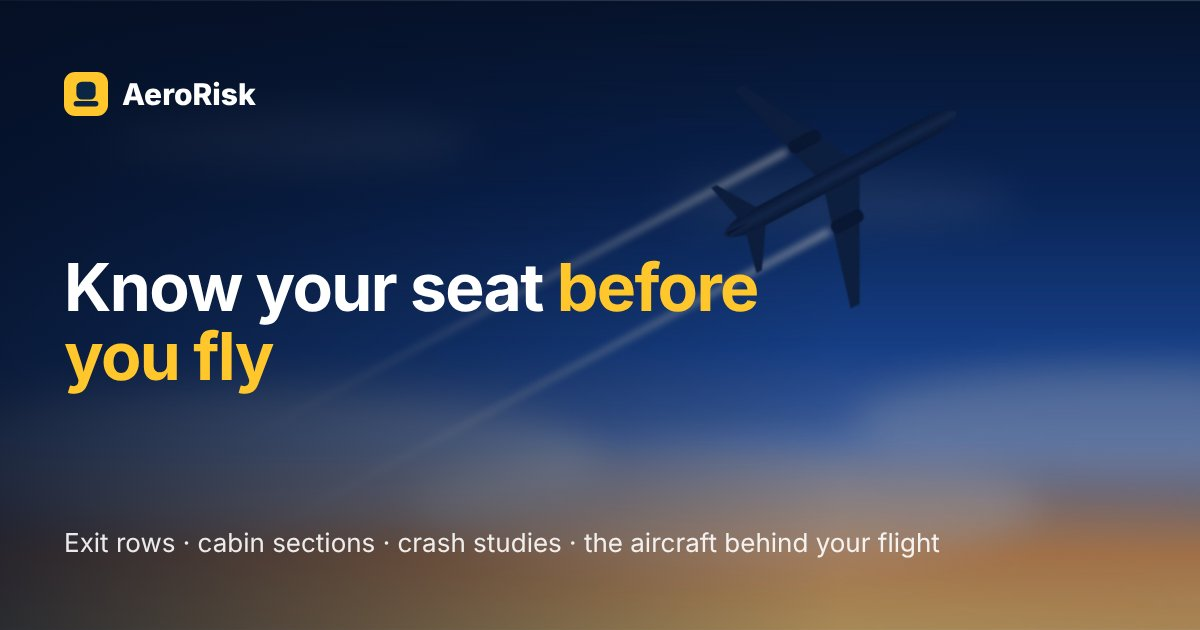
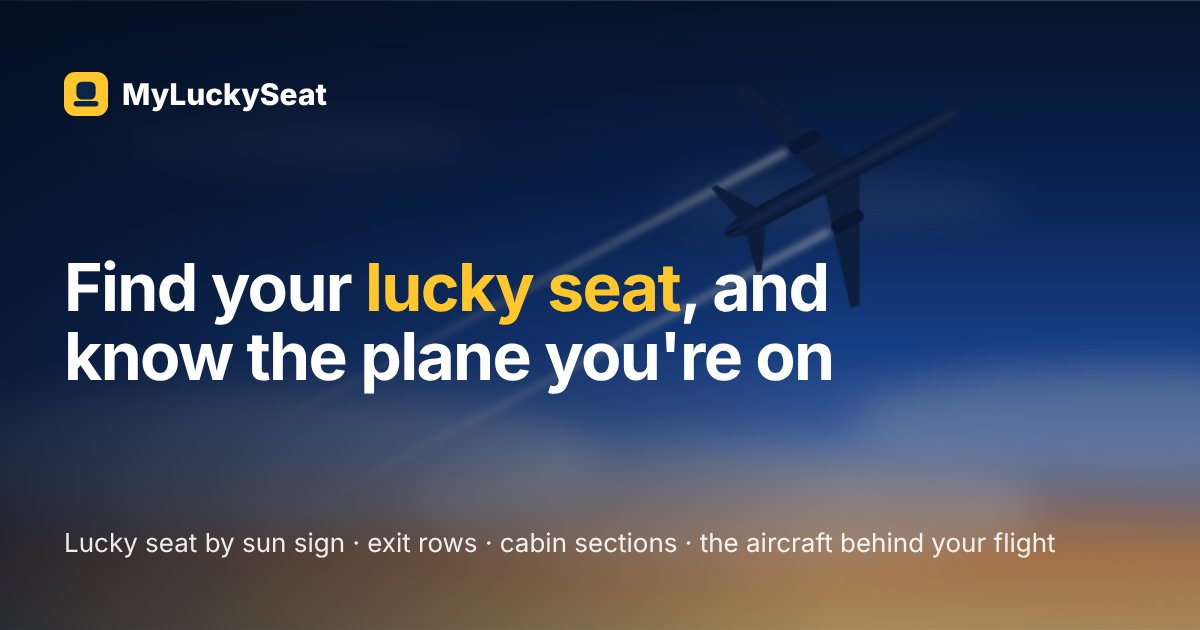
Rebrand to MyLuckySeat; lucky finder leads the home page
- Site name, tagline, headline, share image and llms.txt summary
- Home: lucky seat finder overlaps the banner, flight lookup below
- Lucky share text names the site; aircraft picker shows the airline
- DEPLOY.md: connecting a GoDaddy domain to Cloudflare

Claude-Session: https://claude.ai/code/session_01F6wJfLKpoDDKeZ4uCse7nG

Changed region(s): [[0.0308, 0.3921, 0.7092, 0.6333], [0.0617, 0.8444, 0.8942, 0.9048], [0.0925, 0.1206, 0.2775, 0.181]]

diff --git a/tools/og.html b/tools/og.html
@@ -5,5 +5,5 @@ background:linear-gradient(90deg,rgba(5,15,35,.85),rgba(5,15,35,.35) 70%),url(..
 .brand{display:flex;align-items:center;gap:14px;font-size:30px;font-weight:800}
 h1{font-size:66px;line-height:1.04;letter-spacing:-.025em;margin:0;max-width:820px}
 h1 span{color:#ffc72c}p{font-size:26px;margin:0;opacity:.9}
-</style></head><body><div class="w"><div class="brand"><svg width="44" height="44" viewBox="0 0 32 32"><rect width="32" height="32" rx="8" fill="#ffc72c"/><rect x="9" y="7" width="14" height="13" rx="4" fill="#0b2545"/><rect x="7" y="21" width="18" height="4" rx="2" fill="#0b2545"/></svg>AeroRisk</div>
-<h1>Know your seat <span>before you fly</span></h1><p>Exit rows · cabin sections · crash studies · the aircraft behind your flight</p></div></body></html>
+</style></head><body><div class="w"><div class="brand"><svg width="44" height="44" viewBox="0 0 32 32"><rect width="32" height="32" rx="8" fill="#ffc72c"/><rect x="9" y="7" width="14" height="13" rx="4" fill="#0b2545"/><rect x="7" y="21" width="18" height="4" rx="2" fill="#0b2545"/></svg>MyLuckySeat</div>
+<h1>Find your <span>lucky seat</span>, and know the plane you're on</h1><p>Lucky seat by sun sign · exit rows · cabin sections · the aircraft behind your flight</p></div></body></html>

diff --git a/aerorisk/site.py b/aerorisk/site.py
@@ -7,7 +7,7 @@ adds the interactive seat inspector and analytics events.
 
 Configuration (environment variables):
     SITE_URL            https://your-domain (required for production; canonical, sitemap, robots)
-    SITE_NAME           default "AeroRisk"
+    SITE_NAME           default "MyLuckySeat"
     CONTACT_EMAIL       shown for corrections; omitted if unset
     UMAMI_WEBSITE_ID    enables Umami (custom events). Optional.
     UMAMI_SRC           default https://cloud.umami.is/script.js
@@ -113,8 +113,8 @@ AI_REFERRERS = ["chatgpt.com", "chat.openai.com", "perplexity.ai", "claude.ai", 
 @dataclass
 class Settings:
     url: str = "https://example.com"
-    name: str = "AeroRisk"
-    tagline: str = "Aircraft seat maps where every fact has a source"
+    name: str = "MyLuckySeat"
+    tagline: str = "Find your lucky seat, and know the plane you're on"
     contact_email: str | None = None
     umami_website_id: str | None = None
     umami_src: str = "https://cloud.umami.is/script.js"
@@ -687,7 +687,17 @@ def index_page(s: Settings, pages: list[Page]) -> str:
     desc = (f"{s.tagline}. Row-by-row seat maps with exit rows, missing and windowless seats, "
             f"each fact sourced and marked with how well it is verified.")
     body = f"""
-<section class="lookup lift" id="lookup" aria-labelledby="lookup-h">
+<section class="lucky lift" id="luckyhome" aria-labelledby="luckyhome-h">
+<h2 id="luckyhome-h">Find your lucky seat <span class="badge badge-fun">Just for fun</span></h2>
+<p class="muted">Pick your aircraft and birth date. We pick a lucky section and seat from your sun sign and numerology. Your birth date stays in your browser.</p>
+<form id="luckyhomeform" class="inline-form">
+<label>Aircraft <select id="lh-ac" required>__LUCKY_OPTIONS__</select></label>
+<label>Date of birth <input type="date" id="lh-dob" required></label>
+<label>Seat type <select id="lh-pref"><option value="any">Any</option><option value="window">Window</option><option value="aisle">Aisle</option><option value="middle">Middle</option></select></label>
+<button type="submit">Find my lucky seat</button>
+</form>
+</section>
+<section class="lookup" id="lookup" aria-labelledby="lookup-h">
 <h2 id="lookup-h">Find my cabin</h2>
 <p class="muted">Enter your flight number and date. We'll show which cabin version you're likely to get and open its seat map.</p>
 <form id="lookupform" class="inline-form">
@@ -697,16 +707,6 @@ def index_page(s: Settings, pages: list[Page]) -> str:
 </form>
 <p class="muted small" id="lookupnote">Covers the airlines listed below. Flight data from AeroDataBox.</p>
 <div id="lookupout" aria-live="polite"></div>
-</section>
-<section class="lucky" id="luckyhome" aria-labelledby="luckyhome-h">
-<h2 id="luckyhome-h">Lucky seat finder <span class="badge badge-fun">Just for fun</span></h2>
-<p class="muted">Pick your aircraft and birth date. We pick a lucky section and seat from your sun sign and numerology. Your birth date stays in your browser.</p>
-<form id="luckyhomeform" class="inline-form">
-<label>Aircraft <select id="lh-ac" required>__LUCKY_OPTIONS__</select></label>
-<label>Date of birth <input type="date" id="lh-dob" required></label>
-<label>Seat type <select id="lh-pref"><option value="any">Any</option><option value="window">Window</option><option value="aisle">Aisle</option><option value="middle">Middle</option></select></label>
-<button type="submit">Find my lucky seat</button>
-</form>
 </section>
 <section id="seat-maps">
 <div class="searchrow"><h2>Seat maps</h2>
@@ -736,13 +736,13 @@ def index_page(s: Settings, pages: list[Page]) -> str:
             if cur is not None:
                 opts.append("</optgroup>")
             opts.append(f'<optgroup label="{_e(op)}">'); cur = op
-        opts.append(f'<option value="{_e(p.path)}">{_e(p.cfg["aircraft"]["name"])} · {p.cfg["total_seats"]} seats</option>')
+        opts.append(f'<option value="{_e(p.path)}">{_e(op)} · {_e(p.cfg["aircraft"]["name"])} · {p.cfg["total_seats"]} seats</option>')
     opts.append("</optgroup>")
     body = body.replace("__LUCKY_OPTIONS__", "".join(opts))
-    band = """<h1>Know your seat <span>before you fly</span></h1>
-<p class="lede">Exit rows, cabin sections, what crash studies found, and the aircraft behind your flight. Every fact has a source.</p>
-<p class="bandcta"><a class="btn btn-yellow" href="#luckyhome">Find my lucky seat</a> <a class="btn btn-ghost" href="#seat-maps">Browse seat maps</a></p>"""
-    return shell(s, head(s, title=f"{s.name} — {s.tagline}", description=desc, path="/",
+    band = """<h1>Find your <span>lucky seat</span>, and know the plane you're on</h1>
+<p class="lede">Your sun sign and numbers pick a lucky seat, just for fun. Then see the real thing: exit rows, cabin sections, what crash studies found, and the aircraft behind your flight, every fact sourced.</p>
+<p class="bandcta"><a class="btn btn-yellow" href="#luckyhome">Find my lucky seat</a> <a class="btn btn-ghost" href="#lookup">Find my cabin</a></p>"""
+    return shell(s, head(s, title=f"{s.name}: {s.tagline}", description=desc, path="/",
                          jsonld=[site_ld, org_ld, catalog]), body, band=band, band_cls="band-home")
 
 
@@ -921,7 +921,7 @@ def seatmap_md(s: Settings, p: Page, updated: str) -> str:
 
 def llms_txt(s: Settings, pages: list[Page]) -> str:
     lines = [f"# {s.name}", "",
-             f"> {s.tagline}. Row-by-row airline seat maps (exit rows, seats that don't exist, windowless seats, "
+             f"> {s.name}: a just-for-fun lucky seat finder (sun sign and numerology) on top of sourced, row-by-row airline seat maps (exit rows, seats that don't exist, windowless seats, "
              "approximate pitch), each fact with its sources and a verification status. "
              "Cabin sections are coloured by what two small crash studies found; no seat-level risk scores.", "",
              "Notes for agents:",
@@ -1280,7 +1280,7 @@ LUCKY_JS = r"""(() => {
       '<p class="muted small">For fun only. It isn\'t a rating of any kind; use the facts above to choose a seat.</p>';
     const pageUrl = location.origin + location.pathname;
     const msg = 'My lucky seat on the ' + document.querySelector('h1').textContent.replace(/ seat map$/, '') + ' is ' + top.seat +
-      ' (' + sign.name + ', ' + luckySection + ' section). Find yours: ' + pageUrl + '#lucky';
+      ' (' + sign.name + ', ' + luckySection + ' section) on MyLuckySeat. Find yours: ' + pageUrl + '#lucky';
     out.insertAdjacentHTML('beforeend', '<div class="sharebar">' +
       (navigator.share ? '<button type="button" class="share-native">Share</button>' : '') +
       '<a class="share-wa" target="_blank" rel="noopener" href="https://wa.me/?text=' + encodeURIComponent(msg) + '">Share on WhatsApp</a></div>');

diff --git a/aerorisk/render.py b/aerorisk/render.py
@@ -208,7 +208,7 @@ def render_html(cabins: list[Cabin], *, match: dict | None = None) -> str:
     return f"""<!doctype html>
 <html lang="en"><head><meta charset="utf-8">
 <meta name="viewport" content="width=device-width,initial-scale=1">
-<title>AeroRisk Seat Inspector</title>
+<title>MyLuckySeat Seat Inspector</title>
 <style>
 :root{{--bg:#faf9f6;--card:#fff;--ink:#22211f;--muted:#6f6b63;--line:#b3ada2;--fus:#f1eee7;--seat:#fff;
 --exitrow:#dff0e3;--sel:#1f5fbf;--exit:#c0392b;--fac:#dcd8cf;--warn:#8a5a00;--warnbg:#fff4dc}}
@@ -232,7 +232,7 @@ dl{{display:grid;grid-template-columns:max-content 1fr;gap:4px 12px;margin:12px 
 .na{{border-left:3px solid var(--warn);padding:8px 10px;background:var(--warnbg);border-radius:6px;font-size:13px}}
 small,a{{color:var(--muted)}}a{{overflow-wrap:anywhere}}ul{{padding-left:18px;margin:6px 0}}
 </style></head><body><main>
-<header><h1>AeroRisk Seat Inspector</h1>
+<header><h1>MyLuckySeat Seat Inspector</h1>
 <p class="sub">Layout facts only. Hand-authored draft configurations — verify against the airline's live seat map.</p>
 <div id="match" class="sub"></div></header>
 <div class="map"><label class="sub" for="cfg">Configuration</label><select id="cfg"></select><div id="svg"></div></div>

diff --git a/DEPLOY.md b/DEPLOY.md
@@ -7,6 +7,18 @@ Why Cloudflare: free static hosting with Indian and European edge locations, AI-
 
 ---
 
+## Connecting a domain bought at GoDaddy
+
+1. **Cloudflare → Add a domain** (home page, "Onboard a domain"): enter the domain, choose **Free**. When asked about AI crawlers, choose **allow**.
+2. Cloudflare imports GoDaddy's DNS records. **Delete** any `A` / `CNAME` records for `@` and `www` (GoDaddy parking); the Worker creates its own.
+3. Cloudflare shows **two nameservers** (`xxx.ns.cloudflare.com`). In **GoDaddy → My Products → your domain → DNS → Nameservers → Change nameservers → "I'll use my own nameservers"**, replace GoDaddy's with the two Cloudflare ones and save. Turn **DNSSEC off** at GoDaddy if it's on.
+4. Wait for Cloudflare's "your domain is now active" email (usually under an hour, up to 24h).
+5. **Workers & Pages → aerorisk → Domains → Add custom domain** → add `yourdomain` and `www.yourdomain`.
+6. **Rules → Redirect Rules → Create from template → "Redirect from WWW to root"** so there is one address.
+7. GitHub variables: `SITE_URL=https://yourdomain` (no trailing slash), add `INDEXNOW_KEY`, delete `CF_BEACON_TOKEN`. Re-run the workflow.
+8. Web Analytics → Add a site → pick the domain (automatic setup). Umami → edit the website's domain.
+9. Google Search Console and Bing Webmaster Tools → add the domain → submit `/sitemap.xml`.
+
 ## Quick start without a domain (workers.dev)
 
 1. Cloudflare → **Workers & Pages** → note **Your subdomain** (`<sub>.workers.dev`; click *Change* to pick one). The site will live at `https://aerorisk.<sub>.workers.dev`.
